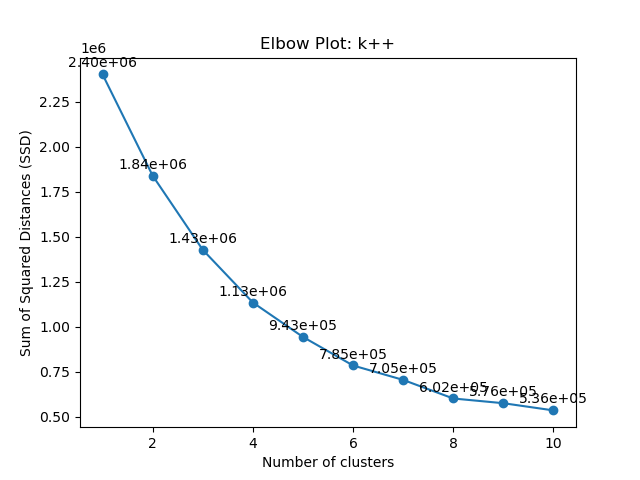
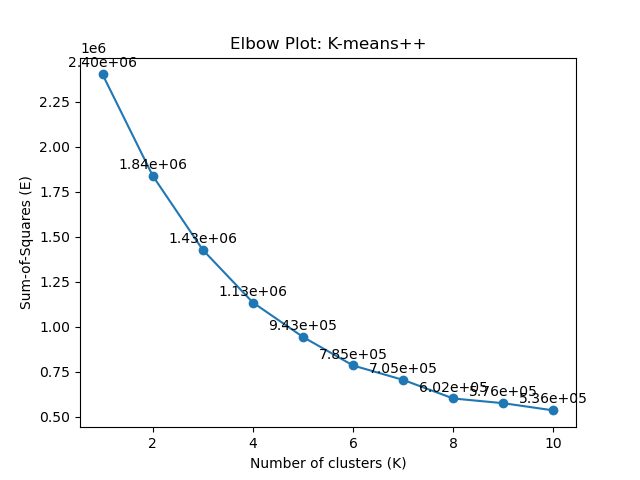
E_m.m.

Changed region(s): [[0.3438, 0.0625, 0.6562, 0.125], [0.375, 0.9375, 0.625, 1.0], [0.0312, 0.2812, 0.0625, 0.75]]

diff --git a/src/elbow_extension.py b/src/elbow_extension.py
@@ -1,4 +1,4 @@
-#!/usr/bin/env python3
+#! /usr/bin/env python3
 
 import sys 
 import numpy as np 
@@ -6,33 +6,34 @@ import matplotlib.pyplot as plt
 from cluster import kmeans 
 
 
-def calculate_ssd(kmeans_instance):
-    # Calculate the sum of squared distances (SSD) for the current clustering
-    ssd = 0
+def calculate_E(kmeans_instance):
+    # Calculate the sum-of-squares distances (E) for the current clustering
+    E = 0
     for i, key in enumerate(kmeans_instance.cluster_dict.keys()):
         centroid = kmeans_instance.centroids[i]
         for index in kmeans_instance.cluster_dict[key]:
-            ssd += np.sum((kmeans_instance.data[index] - centroid) ** 2)
-    return ssd
+            E += np.sum((kmeans_instance.data[index] - centroid) ** 2)
+    return E
 
 
 def elbow_plot(kmeans_instance, max_clusters):
     # Generate an elbow plot for the given kmeans instance
-    ssd_values = list()
+    E_values = list()
     for num_clusters in range(1, max_clusters + 1):
         print(num_clusters)
         kmeans_instance.clusters = num_clusters
         kmeans_instance.cluster()
-        ssd = calculate_ssd(kmeans_instance)
-        ssd_values.append(ssd)   
-    plt.plot(range(1, max_clusters + 1), ssd_values, marker='o')
-    plt.xlabel('Number of clusters')
-    plt.ylabel('Sum of Squared Distances (SSD)')
-    plt.title('Elbow Plot: Random')
+        E = calculate_E(kmeans_instance)
+        E_values.append(E)   
+    plt.plot(range(1, max_clusters + 1), E_values, marker='o')
+    plt.xlabel('Number of clusters (K)')
+    plt.ylabel('Sum-of-Squares (E)')
+    plt.title('Elbow Plot: K-means++')
+    #plt.title('Elbow Plot: Random') # Uncomment for Random initialization of centroids
     #For adding data to the points
-    for i, ssd in enumerate(ssd_values):
-            ssd_sci = '{:.2e}'.format(ssd)
-            plt.annotate(f'{ssd_sci}', (i + 1, ssd), textcoords="offset points", xytext=(0, 5), ha='center')
+    for i, E in enumerate(E_values):
+            E_sci = '{:.2e}'.format(E)
+            plt.annotate(f'{E_sci}', (i + 1, E), textcoords="offset points", xytext=(0, 5), ha='center')
     #plt.savefig("<path/to/save/folder/plot_name.png>") # Uncomment and provide path and name to save the plot as a .png file
     plt.show()
     plt.close()

diff --git a/src/cluster.py b/src/cluster.py
@@ -156,7 +156,7 @@ class kmeans:
         max_iterations = 200
         iteration = 0
         centroids = self._pick_centroids_kmeans_plusplus() 
-        # centroids = self._pick_centroids_random() # Uncomment this line to use random initialisation of centroids
+        #centroids = self._pick_centroids_random() # Uncomment this line to use random initialisation of centroids
         while not convergence and iteration <= max_iterations:
             new_centroids = list()
             self.cluster_dict = self._initialise_cluster_dict()
